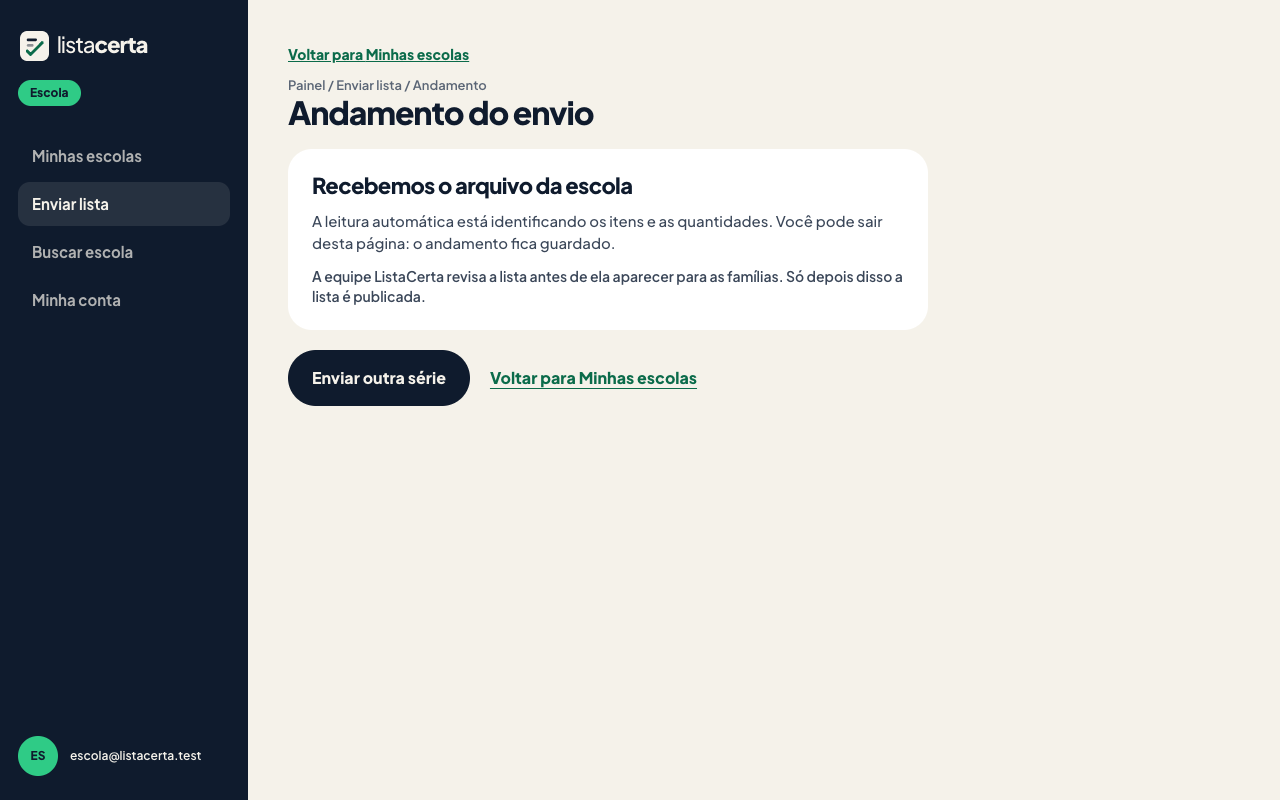
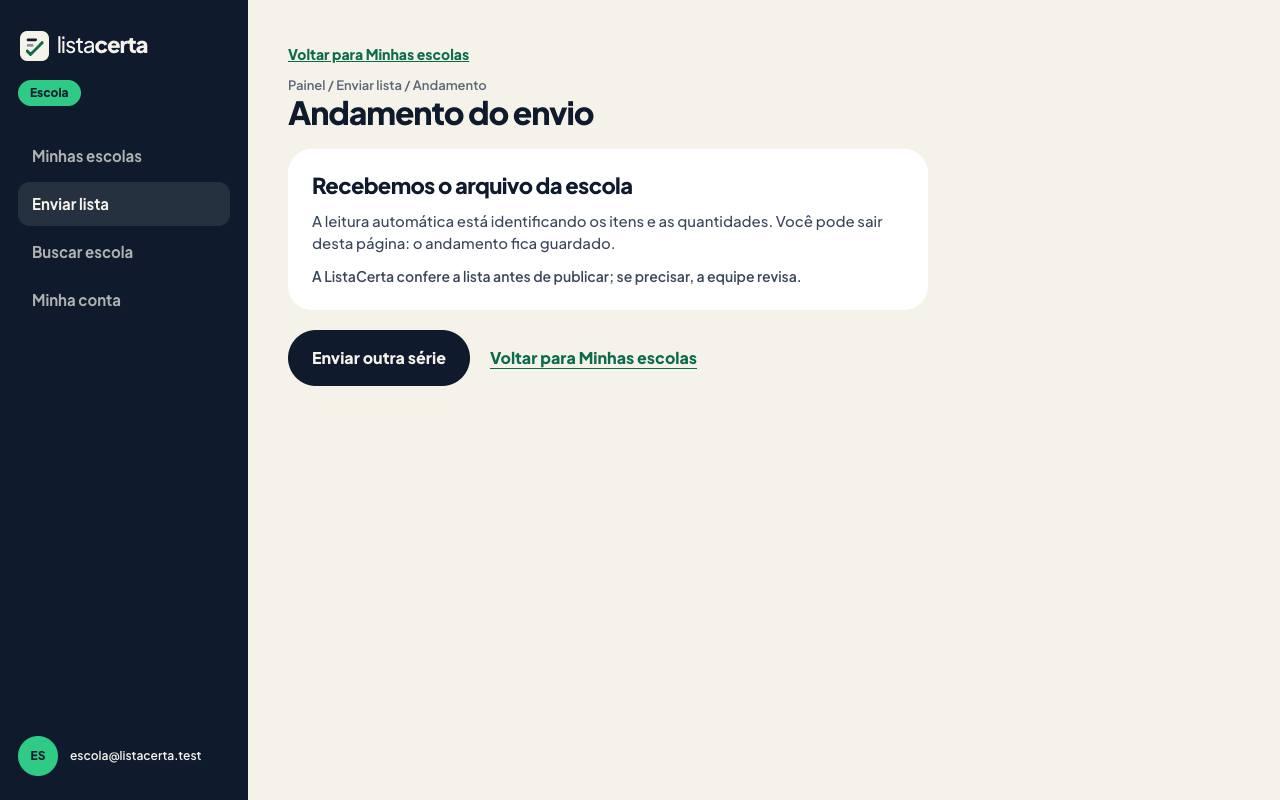
docs(s29): recaptura J5 após texto do andamento e checks da J5

Changed region(s): [[0.2188, 0.4062, 0.5625, 0.5312], [0.25, 0.3438, 0.6875, 0.375]]

diff --git a/docs/revisao-total/checks.md b/docs/revisao-total/checks.md
@@ -40,7 +40,7 @@ Gerado por `scripts/s29-checks.mjs` em 2026-09-29T23:18:35.781Z contra `http://1
 <!-- J5:start -->
 ## J5 · Escola assume e publica
 
-Gerado por `scripts/s29-checks.mjs` em 2026-09-30T05:21:42.671Z contra `http://127.0.0.1:3003`. Rotas com falha: **0** de 7.
+Gerado por `scripts/s29-checks.mjs` em 2026-09-30T07:12:00.976Z contra `http://127.0.0.1:3003`. Rotas com falha: **0** de 7.
 
 | Rota | Conta | HTTP | Resultado | Achados |
 |---|---|---|---|---|
